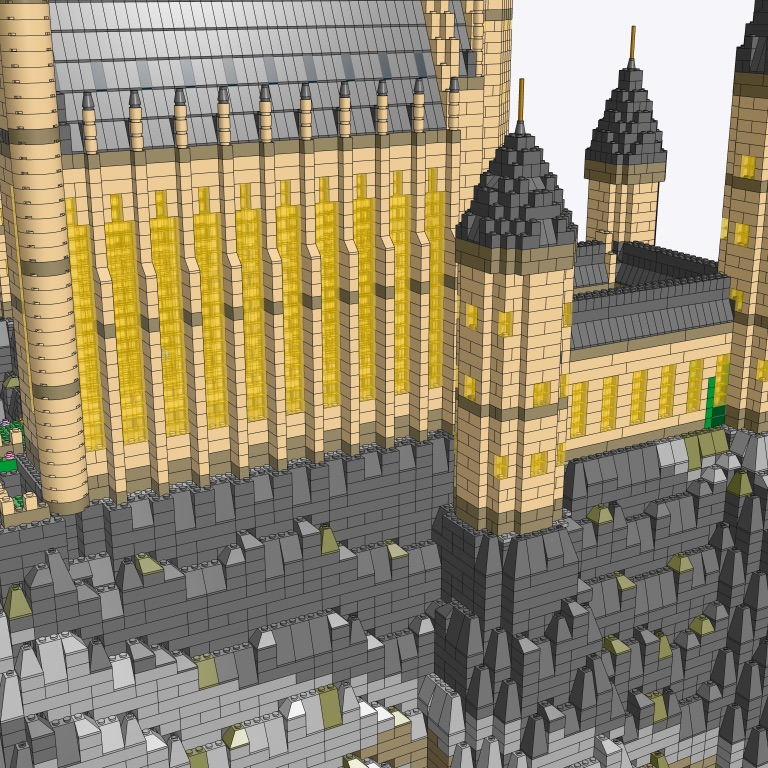
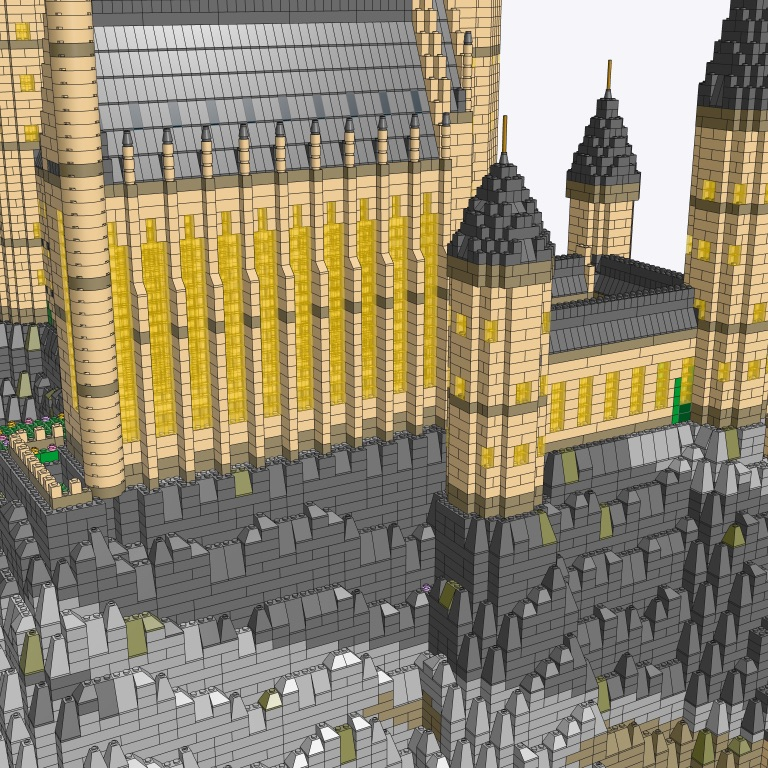
Hogwarts: an organic lake around the crag instead of a rectangle; rock beside a bevel builds its face, closing the holes the slopes revealed

diff --git a/server/brickyard/showcase/hogwarts.py b/server/brickyard/showcase/hogwarts.py
@@ -2,6 +2,7 @@
 
 from __future__ import annotations
 
+import heapq
 import math
 import random
 from collections import Counter
@@ -12,6 +13,7 @@ from brickyard.showcase.kit import Kit
 from brickyard.showcase.sculpt import Color, Sculpture, circle, erode
 
 W, D = 152, 124
+"""The plan's frame: the crag and the lake spill past it on every side."""
 BLACK, TAN, DTAN, LBG, DBG, GOLD, LIT = 0, 19, 28, 71, 72, 297, 46
 GREEN, DGREEN, OLIVE = 2, 288, 330
 DBLUE, TLBLUE, TMBLUE = 272, 43, 41
@@ -42,6 +44,12 @@ YARD = PLATEAU - 2
 """The Viaduct Courtyard's floor, level with the viaduct's deck."""
 SIDES4 = ((1, 0), (-1, 0), (0, 1), (0, -1))
 """Courses the crag falls per stud away from the buildings on it."""
+LAKE = 12
+"""Studs of water from the foot of the crag to the lake's edge, on average; the shore wanders from 4 to 23."""
+FRONT = 14
+"""Studs more of lake in front, where the boats cross."""
+MARGIN = 24
+"""Cells of terrain past the plan's frame, room for the crag's foot and the lake around it."""
 
 
 def noise(x: float, y: float) -> float:
@@ -57,8 +65,8 @@ def terrain(rng: random.Random, pads: dict[Cell, tuple[int, str]]) -> tuple[dict
     """Height in courses and the kind of each 2x2 cell: the castle's pads, crags falling from them, the lake at 0."""
     height, kind = {}, {}
     reach = math.ceil(PLATEAU / CLIFF / S) + 3
-    for X in range(W // S):
-        for Y in range(D // S):
+    for X in range(-MARGIN, W // S + MARGIN):
+        for Y in range(-MARGIN, D // S + MARGIN):
             x, y = S * X + 1, S * Y + 1
             wobble = noise(x * 0.18, y * 0.18), noise(x * 0.7, y * 0.7)
             stretch = 1 + 0.35 * noise(X * 0.45 + 7, Y * 0.45) + 0.1 * (rng.random() - 0.5)
@@ -77,7 +85,40 @@ def terrain(rng: random.Random, pads: dict[Cell, tuple[int, str]]) -> tuple[dict
     for c, (h, name) in pads.items():
         if c in height and (name != "footing" or height[c] < h):
             height[c], kind[c] = h, name
-    return height, kind
+    keep = shore(height)
+    return {c: h for c, h in height.items() if c in keep}, {c: k for c, k in kind.items() if c in keep}
+
+
+def shore(height: dict[Cell, int]) -> set[Cell]:
+    """The crag and the lake around it: water reaches an uneven distance from the rock, filling any bay it encloses."""
+    far = {c: 0.0 for c, h in height.items() if h > 0}
+    queue = [(0.0, c) for c in far]
+    while queue:
+        d, (X, Y) = heapq.heappop(queue)
+        if d > far[X, Y]:
+            continue
+        for dx, dy in ((1, 0), (-1, 0), (0, 1), (0, -1), (1, 1), (1, -1), (-1, 1), (-1, -1)):
+            c, step = (X + dx, Y + dy), d + S * math.hypot(dx, dy)
+            if c in height and step < far.get(c, math.inf) and step <= LAKE + FRONT + 11:
+                far[c] = step
+                heapq.heappush(queue, (step, c))
+
+    def reach(X: int, Y: int) -> float:
+        x, y = S * X, S * Y
+        front = FRONT * min(1.0, max(0.0, (12 - y) / 24))
+        return max(2.0 * S, LAKE + front + 8 * noise(x * 0.05 + 3, y * 0.05) + 3 * noise(x * 0.21, y * 0.21 + 5))
+
+    keep = {c for c, d in far.items() if d <= reach(*c)}
+    edge = [c for c in height if c not in keep and not all((c[0] + dx, c[1] + dy) in height for dx, dy in SIDES4)]
+    outside = set(edge)
+    while edge:
+        X, Y = edge.pop()
+        for dx, dy in SIDES4:
+            c = (X + dx, Y + dy)
+            if c in height and c not in keep and c not in outside:
+                outside.add(c)
+                edge.append(c)
+    return set(height) - outside
 
 
 def pads(sc: Sculpture) -> tuple[dict[Cell, tuple[int, str]], set[Cell]]:
@@ -132,10 +173,16 @@ class Ground:
         self.kit, self.rng, self.footing = kit, rng, footing
         self.height, self.kind = terrain(rng, pads)
         self.claimed: set[tuple[int, int, int]] = set()
+        self.slopes: dict[tuple[int, int, int], Cell | None] = {}
+        """The courses a bevel fills, each with the one side its slope covers to the top, None for a corner."""
+        kit.offset = (-S * min(X for X, _ in self.height), -S * min(Y for _, Y in self.height))
 
     def course(self, x: int, y: int) -> int:
         """The course a building starts on at stud (x, y)."""
         return self.height.get((x // S, y // S), 0)
+
+    def water(self, x: int, y: int) -> bool:
+        return self.height.get((x // S, y // S)) == 0
 
     def studs(self, X: int, Y: int) -> set[Cell]:
         return rect(S * X, S * Y, S, S)
@@ -146,16 +193,26 @@ class Ground:
     def grassy(self, c: Cell) -> bool:
         return False
 
+    def closed(self, X: int, Y: int, k: int, side: Cell) -> bool:
+        """Whether a cell's course fills its whole `side`: a bevel's slope leaves all but its back open."""
+        if (X, Y, k) in self.slopes:
+            return self.slopes[X, Y, k] == side
+        return self.solid(X, Y, k)
+
     def exposed(self, X: int, Y: int, k: int) -> bool:
         """A cell's course seen from outside, so built as bricks; the ones inside stay hollow."""
         return (
             self.solid(X, Y, k)
             and (X, Y, k) not in self.claimed
-            and any(not self.solid(X + dx, Y + dy, k) for (dx, dy), _ in OUTWARD if (X + dx, Y + dy) in self.height)
+            and any(
+                not self.closed(X + dx, Y + dy, k, (-dx, -dy))
+                for (dx, dy), _ in OUTWARD
+                if (X + dx, Y + dy) in self.height
+            )
         )
 
     async def lake(self) -> None:
-        self.kit.fill(0, 0, W, D, 0, DBLUE)
+        self.kit.cover({s for c in self.height for s in self.studs(*c)}, 0, DBLUE)
         await self.kit.step("The bed of the Black Lake")
         water = {s for c, h in self.height.items() if h == 0 for s in self.studs(*c)}
         self.kit.scatter(water, 1, [(TMBLUE, 14), (TLBLUE, 1)], self.rng, WATER)
@@ -176,14 +233,15 @@ class Ground:
             corner = next(((pair, turn) for pair, turn in CORNER_TURNS.items() if all(d in drops for d in pair)), None)
             if corner:
                 size = min(min(drops[d] for d in corner[0]), 3, h)
-                part, rotation = CORNERS[size], corner[1]
+                part, rotation, back = CORNERS[size], corner[1], None
             else:
                 d, drop = max(drops.items(), key=lambda item: item[1])
                 size = min(drop, 3, h)
                 if size == 3 and self.rng.random() < 0.3:
                     size = 2
-                part, rotation = BEVELS[size], dict(OUTWARD)[d]
+                part, rotation, back = BEVELS[size], dict(OUTWARD)[d], (-d[0], -d[1])
             self.claimed.update((X, Y, k) for k in range(h - size, h))
+            self.slopes.update(((X, Y, k), back) for k in range(h - size, h))
             color = grass(X, Y) if self.grassy((X, Y)) else OLIVE if self.rng.random() < 0.1 else rock(X, Y, h - 1)
             out.append((part, S * X, S * Y, 1 + 3 * (h - size), color, rotation))
         return out
@@ -667,7 +725,7 @@ async def boats(kit: Kit, ground: Ground) -> None:
     """The first years' little boats crossing the lake in a line, a lantern at each bow."""
     for i in range(12):
         x, y = 6 + 9 * i, 6 + round(3 * math.sin(i * 0.9))
-        if any(ground.course(u, v) for u in range(x - 1, x + 3) for v in range(y - 1, y + 5)):
+        if not all(ground.water(u, v) for u in range(x - 1, x + 3) for v in range(y - 1, y + 5)):
             continue
         kit.add("3020", x, y, 2, BROWN, 90)
         kit.add("3062b", x, y + 3, 3, LIT)
@@ -720,7 +778,7 @@ async def life(kit: Kit, sc: Sculpture, ground: Ground, rng: random.Random) -> N
                 kit.add("24866" if flower else "32607", x, y, 1 + 3 * h, rng.choice(FLOWERS) if flower else DGREEN)
     await kit.step("Wild flowers and ferns on the ledges")
     for x, y in ((126, 5), (131, 8), (137, 4)):
-        if any(ground.course(u, v) for u in range(x, x + 3) for v in (y, y + 1)):
+        if not all(ground.water(u, v) for u in range(x, x + 3) for v in (y, y + 1)):
             continue
         for part, dx, z in (
             ("3941", 0, 2),

diff --git a/server/brickyard/showcase/kit.py b/server/brickyard/showcase/kit.py
@@ -25,6 +25,7 @@ class Kit:
         self.pending: list[dict] = []
         self.mounted: list[Placement] = []
         self.problems: list[str] = []
+        self.offset = (0, 0)
 
     def add(self, part: str, x: int, y: int, z: int, color: int, rotation: int = 0) -> None:
         self.pending.append(shapes.brick(part, x, y, z, color, rotation))
@@ -41,9 +42,16 @@ class Kit:
         self.mounted.append(mount(ldraw.resolve(part) or part, x, y, z, color, facing))
 
     async def step(self, title: str) -> None:
+        """Checks the pending bricks as one step, each moved `offset` studs along x and y."""
         if not self.pending and not self.mounted:
             return
-        result = await self.bench.add(title, self.pending, self.mounted)
+        ox, oy = self.offset
+        bricks = [b | {"x": b["x"] + ox, "y": b["y"] + oy} for b in self.pending]
+        mounted = [
+            p.model_copy(update={"pos": (p.pos[0] + ox * ldraw.STUD, p.pos[1], p.pos[2] + oy * ldraw.STUD)})
+            for p in self.mounted
+        ]
+        result = await self.bench.add(title, bricks, mounted)
         if result.problems:
             self.problems.append(f"[{title}] {result.text}")
         self.pending, self.mounted = [], []

diff --git a/scripts/hogwarts-sheet.py b/scripts/hogwarts-sheet.py
@@ -7,10 +7,10 @@ from pathlib import Path
 from PIL import Image, ImageDraw, ImageFont
 
 VIEWS = [
-    ("3/4 front, from the lake", "angle=20&elevation=22&zoom=1.6"),
-    ("Great Hall front, Viaduct Courtyard", "angle=105&elevation=30&zoom=3.5&at=66,40,190"),
-    ("South Courtyard garden", "angle=180&elevation=65&zoom=3.5&at=62,83,125"),
-    ("Hagrid's hut, pumpkins, boats", "angle=330&elevation=25&zoom=5&at=12,18,30"),
+    ("3/4 front, from the lake", "angle=20&elevation=22&zoom=1.3"),
+    ("Great Hall front, Viaduct Courtyard", "angle=105&elevation=30&zoom=3.5&at=82,62,190"),
+    ("South Courtyard garden", "angle=180&elevation=65&zoom=3.5&at=78,105,125"),
+    ("Hagrid's hut, pumpkins, boats", "angle=330&elevation=25&zoom=5&at=28,40,30"),
 ]
 TILE = 640
 OUT = Path(__file__).resolve().parents[1] / "agent" / "showcase" / "hogwarts.png"

diff --git a/docs/hogwarts-build-log.md b/docs/hogwarts-build-log.md
@@ -193,3 +193,23 @@ Result: 34.4k pieces, 46 steps, 0 problems.
 ![willow](hogwarts/willow.jpg)
 
 Lesson: **when the user sends a reference image, copy it feature by feature**, then render from the same angle. A plan tells you where things are; a photo tells you what they look like.
+
+### 4.11 An organic lake, and holes beside the slopes
+
+User: "instead of a rectangular water, make the water surround the rocky cliff in an organic way". Then: "some pieces are diagonal, and they reveal underlying holes".
+
+| Before | After |
+|---|---|
+| the lake filled the 152x124 rectangle; the crag was cut off at 3 of its edges | the terrain runs past the plan's frame, so the crag's foot ends naturally; the lake is a band 4 to 23 studs wide around it (wider in front, where the boats cross), and nothing lies beyond: 188x160 |
+| a rock cell next to a bevel counted the bevel's cell as solid up to its top | a bevel's cell counts as solid only on its back side (a corner bevel on none), so the rock beside and behind it builds its face |
+
+- The castle keeps its plan coordinates; the kit moves every brick by one offset when it commits a step, so nothing in the plan changed.
+- The lake reaches out from the rock by distance plus two layers of noise, and any bay it encloses fills with water.
+- Holes of this kind show only in close views from the side: the four standard views never caught them.
+
+Result: 36.7k pieces, 46 steps, 0 problems.
+
+![hero](hogwarts/hero.jpg)
+![top](hogwarts/top.jpg)
+
+Lesson: **a hollow shell is only as tight as its idea of "solid"**. Any part that does not fill its cell (a slope, a round, a corner) must say which of its sides it closes.
